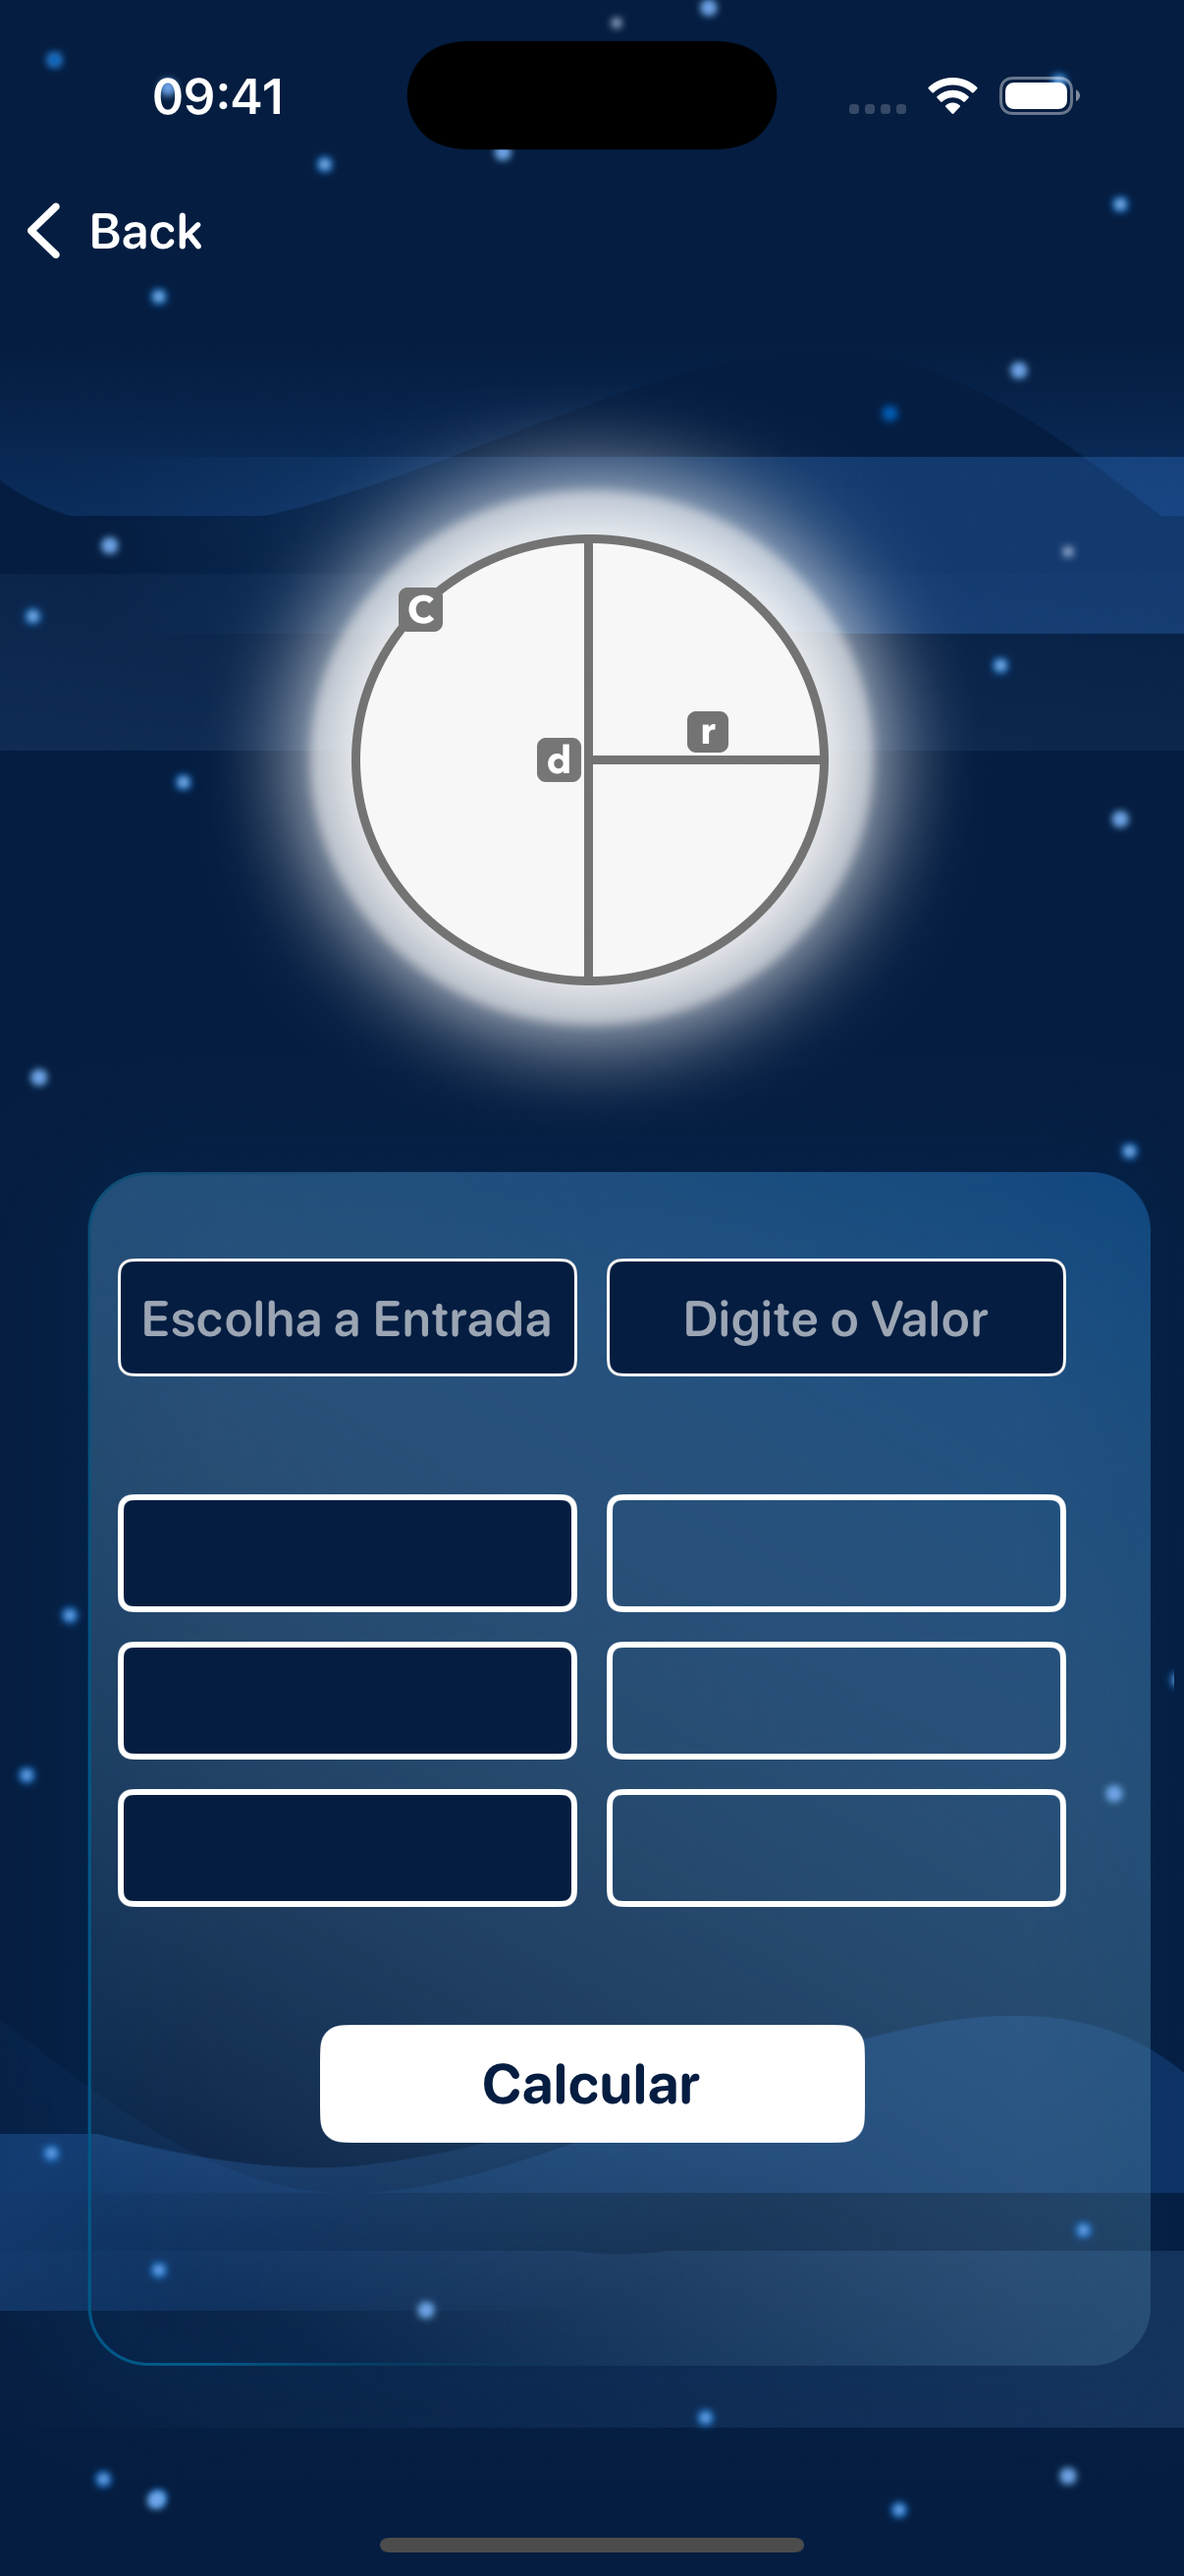
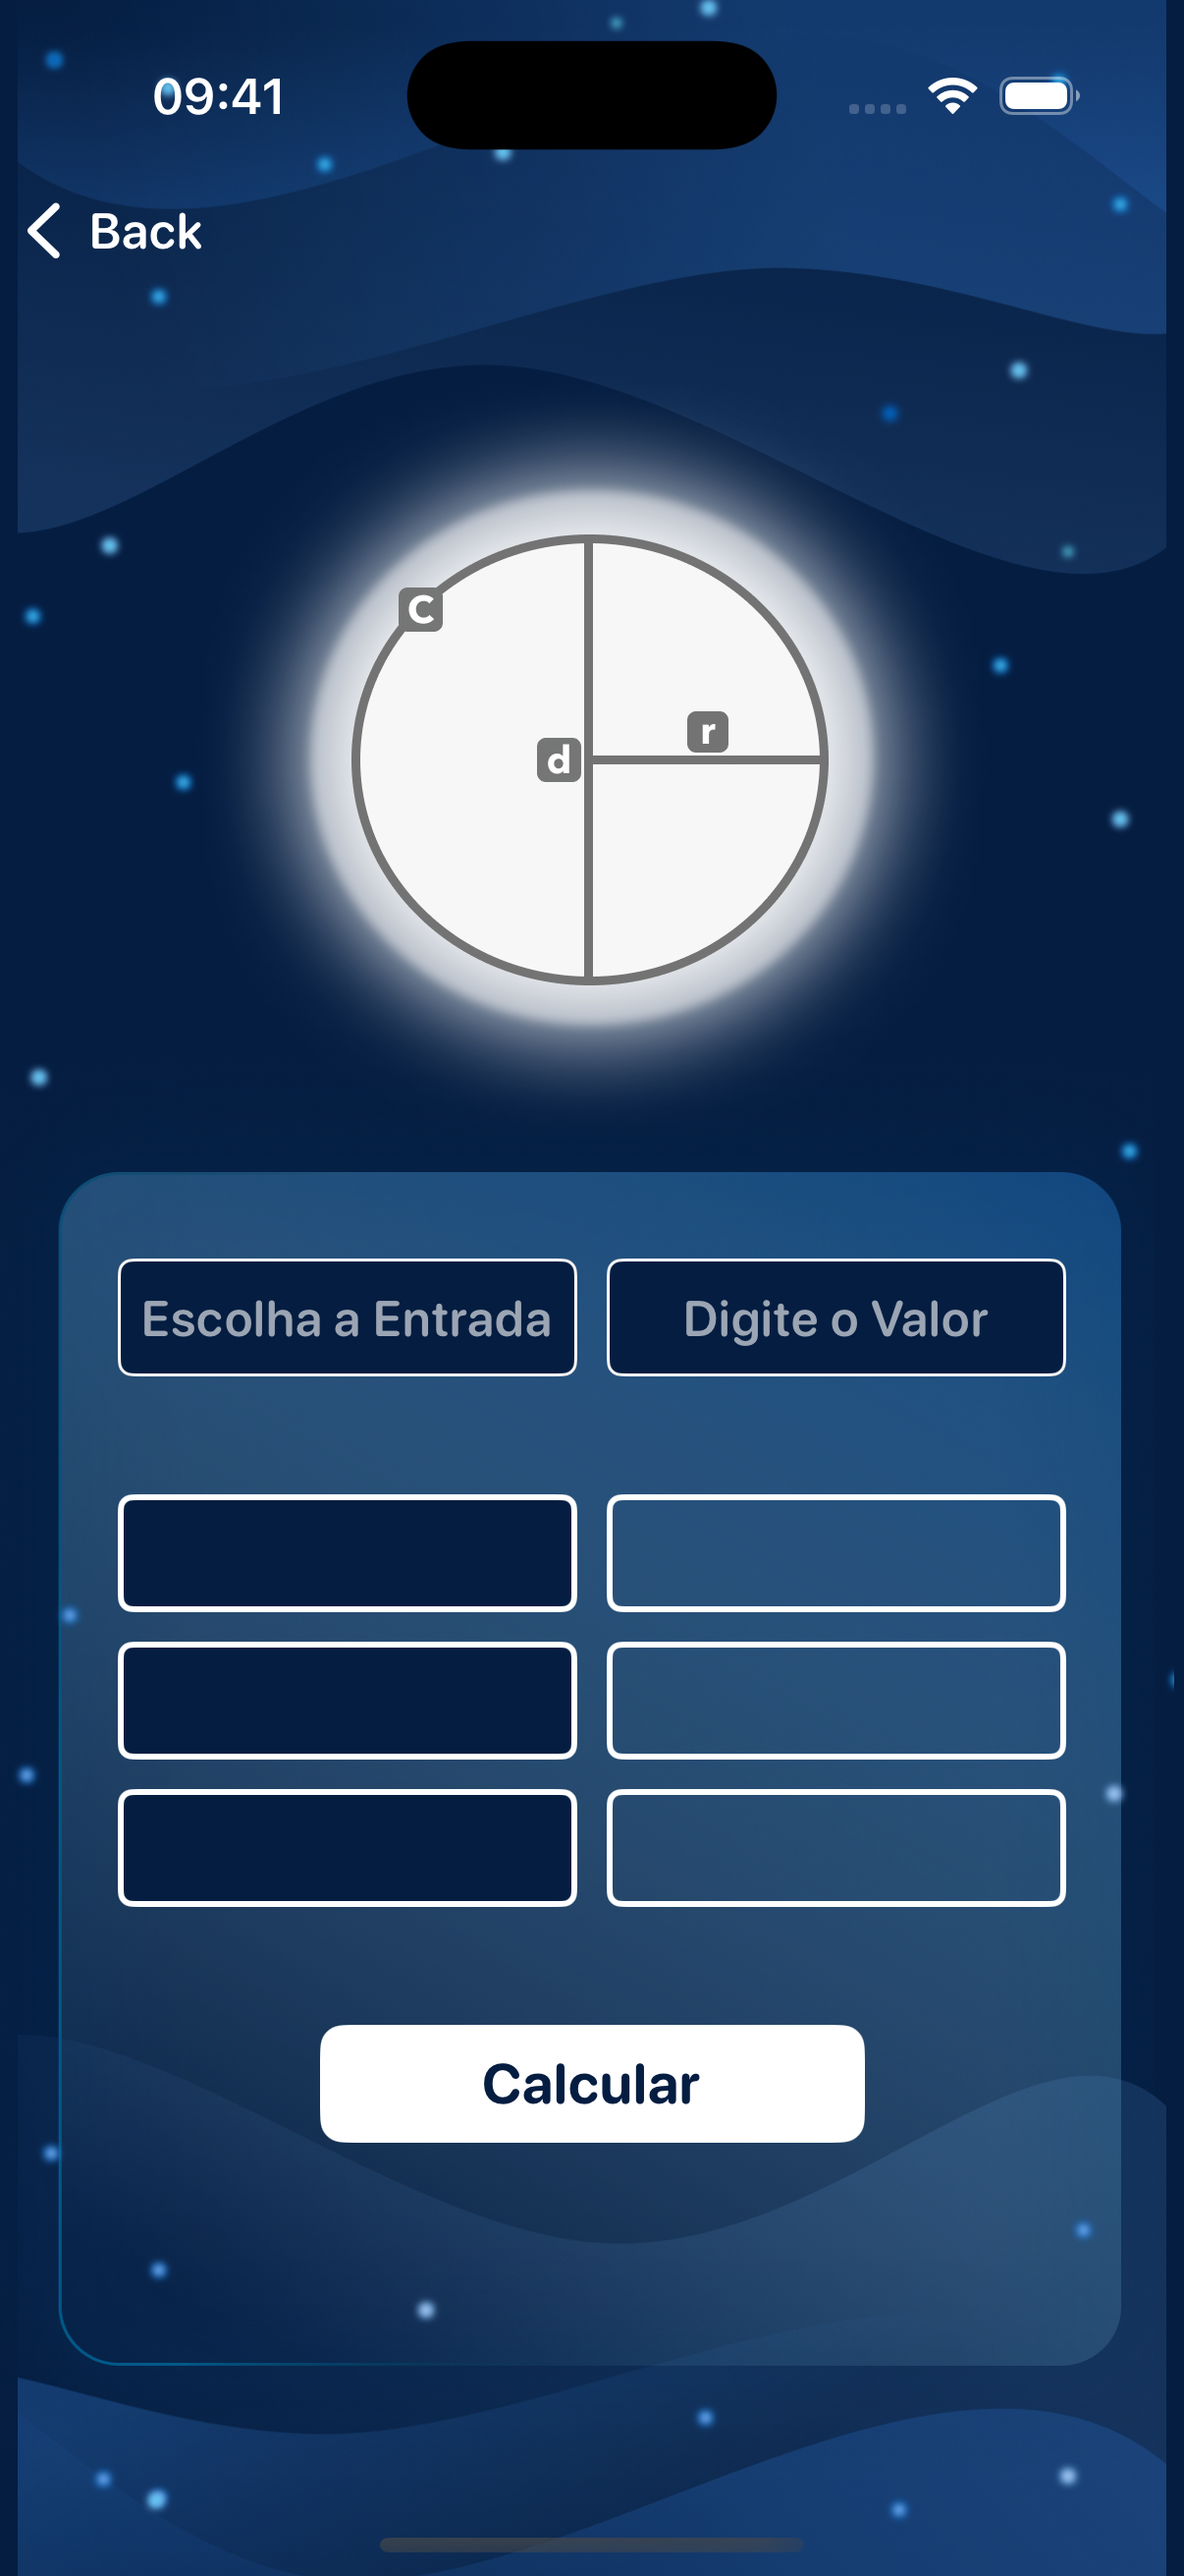
Reverte nuvens para o original e mantem fix do layout da calculadora

diff --git a/Luna/Sources/CloudView/CloudBottomView.swift b/Luna/Sources/CloudView/CloudBottomView.swift
@@ -66,29 +66,13 @@ class CloudBottomView: UIView {
         cloudBottomOne.translatesAutoresizingMaskIntoConstraints = false
         cloudBottomTow.translatesAutoresizingMaskIntoConstraints = false
         cloudBottomThree.translatesAutoresizingMaskIntoConstraints = false
-
-        cloudBottomOne.contentMode = .scaleAspectFill
-        cloudBottomTow.contentMode = .scaleAspectFill
-        cloudBottomThree.contentMode = .scaleAspectFill
-        cloudBottomOne.clipsToBounds = true
-        cloudBottomTow.clipsToBounds = true
-        cloudBottomThree.clipsToBounds = true
-
         NSLayoutConstraint.activate([
-            cloudBottomOne.leadingAnchor.constraint(equalTo: leadingAnchor),
-            cloudBottomOne.trailingAnchor.constraint(equalTo: trailingAnchor),
-            cloudBottomOne.bottomAnchor.constraint(equalTo: bottomAnchor),
-            cloudBottomOne.heightAnchor.constraint(equalToConstant: 60),
-
-            cloudBottomTow.leadingAnchor.constraint(equalTo: leadingAnchor),
-            cloudBottomTow.trailingAnchor.constraint(equalTo: trailingAnchor),
-            cloudBottomTow.bottomAnchor.constraint(equalTo: cloudBottomOne.topAnchor, constant: 20),
-            cloudBottomTow.heightAnchor.constraint(equalToConstant: 60),
-
-            cloudBottomThree.leadingAnchor.constraint(equalTo: leadingAnchor),
-            cloudBottomThree.trailingAnchor.constraint(equalTo: trailingAnchor),
-            cloudBottomThree.bottomAnchor.constraint(equalTo: cloudBottomTow.topAnchor, constant: 20),
-            cloudBottomThree.heightAnchor.constraint(equalToConstant: 60),
+            cloudBottomOne.centerXAnchor.constraint(equalTo: centerXAnchor),
+            cloudBottomOne.centerYAnchor.constraint(equalTo: centerYAnchor, constant: 25),
+            cloudBottomTow.centerXAnchor.constraint(equalTo: centerXAnchor),
+            cloudBottomTow.centerYAnchor.constraint(equalTo: centerYAnchor, constant: 65),
+            cloudBottomThree.centerXAnchor.constraint(equalTo: centerXAnchor),
+            cloudBottomThree.centerYAnchor.constraint(equalTo: centerYAnchor, constant: 80),
         ])
     }
     

diff --git a/Luna/Sources/CloudView/CloudTopView.swift b/Luna/Sources/CloudView/CloudTopView.swift
@@ -69,29 +69,14 @@ class CloudTopView: UIView {
         cloudTopOne.translatesAutoresizingMaskIntoConstraints = false
         cloudTopTow.translatesAutoresizingMaskIntoConstraints = false
         cloudTopThree.translatesAutoresizingMaskIntoConstraints = false
-
-        cloudTopOne.contentMode = .scaleAspectFill
-        cloudTopTow.contentMode = .scaleAspectFill
-        cloudTopThree.contentMode = .scaleAspectFill
-        cloudTopOne.clipsToBounds = true
-        cloudTopTow.clipsToBounds = true
-        cloudTopThree.clipsToBounds = true
-
+       
         NSLayoutConstraint.activate([
-            cloudTopThree.leadingAnchor.constraint(equalTo: leadingAnchor),
-            cloudTopThree.trailingAnchor.constraint(equalTo: trailingAnchor),
-            cloudTopThree.topAnchor.constraint(equalTo: topAnchor),
-            cloudTopThree.heightAnchor.constraint(equalToConstant: 60),
-
-            cloudTopTow.leadingAnchor.constraint(equalTo: leadingAnchor),
-            cloudTopTow.trailingAnchor.constraint(equalTo: trailingAnchor),
-            cloudTopTow.topAnchor.constraint(equalTo: cloudTopThree.bottomAnchor, constant: -20),
-            cloudTopTow.heightAnchor.constraint(equalToConstant: 60),
-
-            cloudTopOne.leadingAnchor.constraint(equalTo: leadingAnchor),
-            cloudTopOne.trailingAnchor.constraint(equalTo: trailingAnchor),
-            cloudTopOne.topAnchor.constraint(equalTo: cloudTopTow.bottomAnchor, constant: -20),
-            cloudTopOne.heightAnchor.constraint(equalToConstant: 60),
+            cloudTopOne.centerXAnchor.constraint(equalTo: centerXAnchor),
+            cloudTopOne.centerYAnchor.constraint(equalTo: centerYAnchor, constant: -15),
+            cloudTopTow.centerXAnchor.constraint(equalTo: centerXAnchor),
+            cloudTopTow.centerYAnchor.constraint(equalTo: centerYAnchor, constant: -57),
+            cloudTopThree.centerXAnchor.constraint(equalTo: centerXAnchor),
+            cloudTopThree.centerYAnchor.constraint(equalTo: centerYAnchor, constant: -70),
         ])
     }
     

diff --git a/Luna/Sources/Circle/CircleView.swift b/Luna/Sources/Circle/CircleView.swift
@@ -361,22 +361,19 @@ class CircleView: UIView, UIPickerViewDelegate, UIPickerViewDataSource, UITextFi
         
         NSLayoutConstraint.activate([
             
-            cloudTop.leadingAnchor.constraint(equalTo: leadingAnchor),
-            cloudTop.trailingAnchor.constraint(equalTo: trailingAnchor),
+            cloudTop.centerXAnchor.constraint(equalTo: centerXAnchor),
             cloudTop.topAnchor.constraint(equalTo: topAnchor, constant: 115),
-            cloudTop.heightAnchor.constraint(equalToConstant: 150),
 
-            cloudBottom.leadingAnchor.constraint(equalTo: leadingAnchor),
-            cloudBottom.trailingAnchor.constraint(equalTo: trailingAnchor),
-            cloudBottom.bottomAnchor.constraint(equalTo: bottomAnchor, constant: -50),
-            cloudBottom.heightAnchor.constraint(equalToConstant: 150),
+            cloudBottom.centerXAnchor.constraint(equalTo: centerXAnchor),
+            cloudBottom.bottomAnchor.constraint(equalTo: bottomAnchor, constant: -100),
             
             moom.centerXAnchor.constraint(equalTo: centerXAnchor),
             moom.centerYAnchor.constraint(equalTo: centerYAnchor, constant: -180),
             
             imageView.topAnchor.constraint(equalTo: moom.bottomAnchor, constant: -30),
-            imageView.leadingAnchor.constraint(equalTo: leadingAnchor),
-            imageView.trailingAnchor.constraint(equalTo: trailingAnchor),
+            imageView.leadingAnchor.constraint(equalTo: leadingAnchor, constant: -10),
+            imageView.trailingAnchor.constraint(equalTo: trailingAnchor, constant: 0),
+            imageView.widthAnchor.constraint(equalTo: widthAnchor),
             
             star.topAnchor.constraint(equalTo: topAnchor),
             star.leadingAnchor.constraint(equalTo: leadingAnchor),

diff --git a/Luna/Sources/Intro/View/IntroView.swift b/Luna/Sources/Intro/View/IntroView.swift
@@ -113,15 +113,11 @@ class IntroView: UIView {
         cloudBottom.translatesAutoresizingMaskIntoConstraints = false
         NSLayoutConstraint.activate([
 //            lunaView.topAnchor.constraint(equalTo: imageView.topAnchor, constant: 66),
-            cloudBottom.leadingAnchor.constraint(equalTo: leadingAnchor),
-            cloudBottom.trailingAnchor.constraint(equalTo: trailingAnchor),
-            cloudBottom.bottomAnchor.constraint(equalTo: bottomAnchor, constant: -50),
-            cloudBottom.heightAnchor.constraint(equalToConstant: 150),
-
-            cloudTop.leadingAnchor.constraint(equalTo: leadingAnchor),
-            cloudTop.trailingAnchor.constraint(equalTo: trailingAnchor),
+            cloudBottom.centerXAnchor.constraint(equalTo: centerXAnchor),
+            cloudBottom.bottomAnchor.constraint(equalTo: bottomAnchor, constant: -100),
+            
+            cloudTop.centerXAnchor.constraint(equalTo: centerXAnchor),
             cloudTop.topAnchor.constraint(equalTo: topAnchor, constant: 115),
-            cloudTop.heightAnchor.constraint(equalToConstant: 150),
             
             lunaView.centerXAnchor.constraint(equalTo: centerXAnchor),
             lunaView.topAnchor.constraint(equalTo: cloudTop.bottomAnchor, constant: 300),
